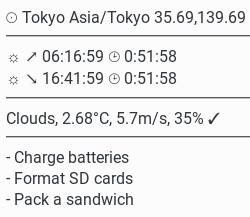
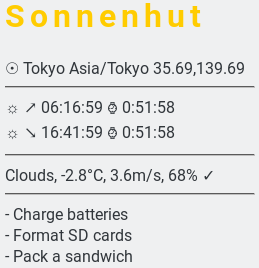
Cometic tweaks :monkey:

Changed region(s): [[0.0, 0.2212, 1.0, 0.9954], [0.0, 0.0, 1.0, 0.1935]]

diff --git a/sonnenhut.py b/sonnenhut.py
@@ -69,6 +69,6 @@ def sonnenhut():
     else:
         open(txt_path, 'a').close()
 
-    return (u'<h1 style="letter-spacing: 5px; color: #ffcc00">Sonnenhut</h1>%s<br /><hr width="50%" />%s<br />%s<br /><hr width="50%" />%s, %s°C, %sm/s, %s%% %s<br /><hr width="50%" />%s' % (general_info, gh_sunrise_line, gh_sunset_line, status, temp['temp'], wind_speed['speed'], humidity, precip, txt_note_print))
+    return (u'<h1 style="letter-spacing: 5px; color: #ffcc00">Sonnenhut</h1>%s<br /> <hr align=left width=250px>%s<br />%s<br /> <hr align=left width=250px> %s, %s°C, %sm/s, %s%% %s<br /> <hr align=left width=250px> %s' % (general_info, gh_sunrise_line, gh_sunset_line, status, temp['temp'], wind_speed['speed'], humidity, precip, txt_note_print))
 
 run(host='0.0.0.0', port=8080, reloader=True)
